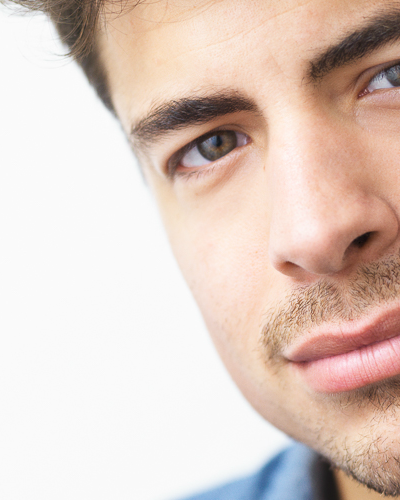
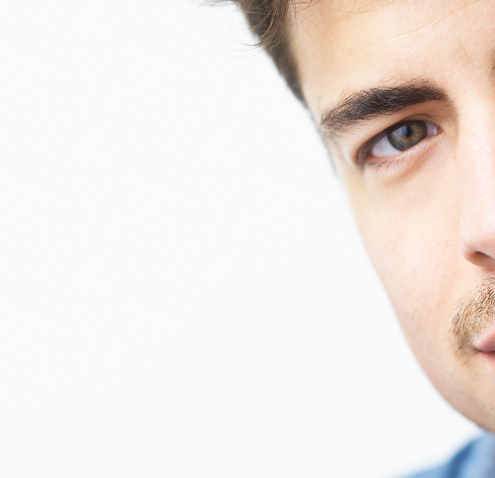
leaving

diff --git a/scss/home/menu_overlay.scss b/scss/home/menu_overlay.scss
@@ -1,0 +1,105 @@
+.menu-overlay-wrapper {
+  position: absolute;
+  top: 0;
+  left: 0;
+  height: 100%;
+  width: 100%;
+
+  .top-bar {
+    position: absolute;
+    top: 0;
+    left: 0;
+    width: 100%;
+    height: 5em;
+    display: flex;
+    justify-content: center;
+    align-items: center;
+  }
+
+  .right-bar {
+    position: absolute;
+    right: 0;
+    height: 100%;
+    width: 130px;
+    top: 0;
+    display: flex;
+    align-items: center;
+    justify-content: center;
+
+    .activate-menu {
+      display: block;
+      text-orientation: upright;
+      writing-mode: vertical-rl;
+      text-decoration: none;
+      padding: 25px;
+      position: relative;
+
+      .line.top {
+        left: 1%;
+        top: 1%;
+        width: 0;
+        height: 1px;
+      }
+
+      .line.right {
+        right: 1%;
+        top: 1%;
+        width: 1px;
+        height: 0;
+      }
+
+      .line.left {
+        left: 1%;
+        bottom: 1%;
+        width: 1px;
+        height: 0;
+      }
+
+      .line.bottom {
+        right: 1%;
+        bottom: 1%;
+        width: 0;
+        height: 1px;
+      }
+
+      .line {
+        display: block;
+        position: absolute;
+        background: #787772;
+        transition-duration: 0.45s;
+        transition-property: top,right,bottom,left,width,height;
+        transition-delay: 0s;
+      }
+    }
+
+    .activate-menu:hover {
+      .bottom,
+      .top {
+        width: 98%;
+      }
+
+      .left,
+      .right {
+        height:: 98%;
+      }
+    }
+  }
+
+  .left-bar {
+    position: absolute;
+    left: 0;
+    height: 100%;
+    width: 130px;
+    top: 0;
+    display: flex;
+    align-items: center;
+    justify-content: center;
+
+    p {
+      text-orientation: upright;
+      writing-mode: vertical-rl;
+      display: block;
+      text-align: center;
+    }
+  }
+}

diff --git a/scss/home/movie_slider.scss b/scss/home/movie_slider.scss
@@ -2,14 +2,27 @@
   height: 100vh;
   width: 100%;
   position: relative;
-  background-image: url("/assets/images/theatre.jpg");
-  background-size: cover;
-  background-repeat: no-repeat;
-  opacity: 0.9;
+
+  .custom-bg {
+    position: absolute;
+    left: 0;
+    width: 50%;
+    height: 100%;
+    background: #1d2120;
+  }
+
+  .white-bg {
+    position: absolute;
+    right: 0;
+    width: 50%;
+    height: 100%;
+    background: white;
+  }
 
   .swiper-container {
-    width: 725px;
-    height: 444px;
+    width: 78%;
+    height: 69%;
+    max-height: 525px;
     position: absolute;
     left: 50%;
     top: 50%;
@@ -23,6 +36,7 @@
           height: 100%;
         }
       }
+
       .swiper-slide {
         display: flex;
         justify-content: center;
@@ -38,16 +52,19 @@
           background-size: cover;
           background-repeat: no-repeat;
           position: absolute;
-          transition: all 1.2s cubic-bezier(.35,.07,.58,1)
+          transition: all 1.2s cubic-bezier(0.645, 0.045, 0.355, 1);
         }
+
         .left-img {
           bottom: 0;
           left: 0;
+          transition-delay: 50ms;
         }
+
         .right-img {
           bottom: 0;
           right: 0;
-          transition-delay: 200ms;
+          transition-delay: 100ms;
         }
       }
     }
@@ -58,5 +75,20 @@
       border-radius: 0;
       margin: 10px 0 !important;
     }
+  }
+}
+@media only screen and (max-width: 800px) {
+  .left-img,
+  .right-img {
+    width: 50%;
+    height: 0;
+    float: left;
+    background-size: cover;
+    background-repeat: no-repeat;
+    position: absolute;
+    transition: all 1.2s cubic-bezier(.35,.07,.58,1);
+    background-repeat: no-repeat;
+    background-size: contain;
+    background-position: center;
   }
 }

diff --git a/src/reducers/reducer_movie_slides.js b/src/reducers/reducer_movie_slides.js
@@ -5,22 +5,29 @@ export default function() {
       title: 'title 1',
       content: 'content 1',
       background: '#ffffff',
-      img_left:'/assets/images/actor_face_left.png',
-      img_right:'/assets/images/actor_face_right.png'
+      img_left: '/assets/images/actor_face_left.png',
+      img_right: '/assets/images/actor_face_right.png'
     }, {
       id: "2",
       title: 'title 2',
       content: 'content 2',
       background: '#98dafc',
-      img_left:'/assets/images/actor_face_left.png',
-      img_right:'/assets/images/actor_face_right.png'
+      img_left: '/assets/images/left_snap_shot.png',
+      img_right: '/assets/images/right_snap_shot.png'
     }, {
       id: "3",
       title: 'title 3',
       content: 'content 3',
       background: '#daad86',
-      img_left:'/assets/images/actor_face_left.png',
-      img_right:'/assets/images/actor_face_right.png'
+      img_left: '/assets/images/rawsmile_left.png',
+      img_right: '/assets/images/rawsmile_right.png'
+    }, {
+      id: "4",
+      title: 'title 4',
+      content: 'content 4',
+      background: '#daad86',
+      img_left: '/assets/images/tmobile_left.png',
+      img_right: '/assets/images/tmobile_right.png'
     }
   ]
 }

diff --git a/src/components/menu_overlay.js b/src/components/menu_overlay.js
@@ -1,0 +1,31 @@
+import React, { Component } from 'react';
+import { connect } from 'react-redux';
+
+class MenuOverlay extends Component {
+  constructor(props){
+    super(props);
+  }
+  render() {
+    return (
+      <div className="menu-overlay-wrapper">
+        <div className="top-bar">
+          <h1>JUSTIN C. SCHILLING</h1>
+        </div>
+        <div className="right-bar">
+          <a href="" className="activate-menu">
+            MENU
+            <span className="top line"></span>
+            <span className="right line"></span>
+            <span className="bottom line"></span>
+            <span className="left line"></span>
+          </a>
+        </div>
+        <div className="left-bar">
+          <p>New York City</p>
+        </div>
+      </div>
+    )
+  }
+}
+
+export default MenuOverlay;

diff --git a/src/components/movie_slider.js b/src/components/movie_slider.js
@@ -1,6 +1,7 @@
 import React, { Component } from 'react';
 
 import MovieSlides from './../containers/movie_slides';
+import MenuOverlay from './../components/menu_overlay';
 import mySwiper from './../js/hero_init';
 
 class MovieSlider extends Component {
@@ -10,6 +11,8 @@ class MovieSlider extends Component {
   render() {
     return (
       <div className="movie-slider-wrapper">
+        <div className="custom-bg"></div>
+        <MenuOverlay />
         <div className="swiper-container">
           <MovieSlides />
           <div className="swiper-pagination"></div>

diff --git a/src/js/hero_init.js b/src/js/hero_init.js
@@ -14,11 +14,10 @@ var mySwiper = new Swiper('.swiper-container', {
     el: '.swiper-pagination',
   },
  });
- mySwiper.on('slideChangeTransitionStart', function () {
+ mySwiper.on('transitionStart', function () {
    const slideIndex = mySwiper.realIndex;
    const prevIndex =  slideIndex - 1;
    const nextIndex = slideIndex + 1;
-
      //Current
     $('.swiper-slide:eq('+slideIndex+')').children().css({height:'100%'});
     $('.swiper-slide:eq('+prevIndex+')').children().css({height:'0%', top:'0', bottom:'initial'});

diff --git a/scss/base.scss b/scss/base.scss
@@ -1,8 +1,8 @@
 // COLOR PALLETE
 $white: #ffffff;
-$blue: #98dafc;
-$tan: #daad86;
-$brown: #312c32;
+$blue: #e9ece5;
+$tan: #3b3a36;
+$brown: #1d2120;
 
 // FONTS
 @import url('https://fonts.googleapis.com/css?family=Ubuntu:300,400,500');

diff --git a/scss/home/home_page.scss b/scss/home/home_page.scss
@@ -1,6 +1,7 @@
 @import './body_grid.scss';
 @import './movie_slider.scss';
 @import './footer.scss';
+@import './menu_overlay.scss';
 
 html, body {
   height: 100vh;
